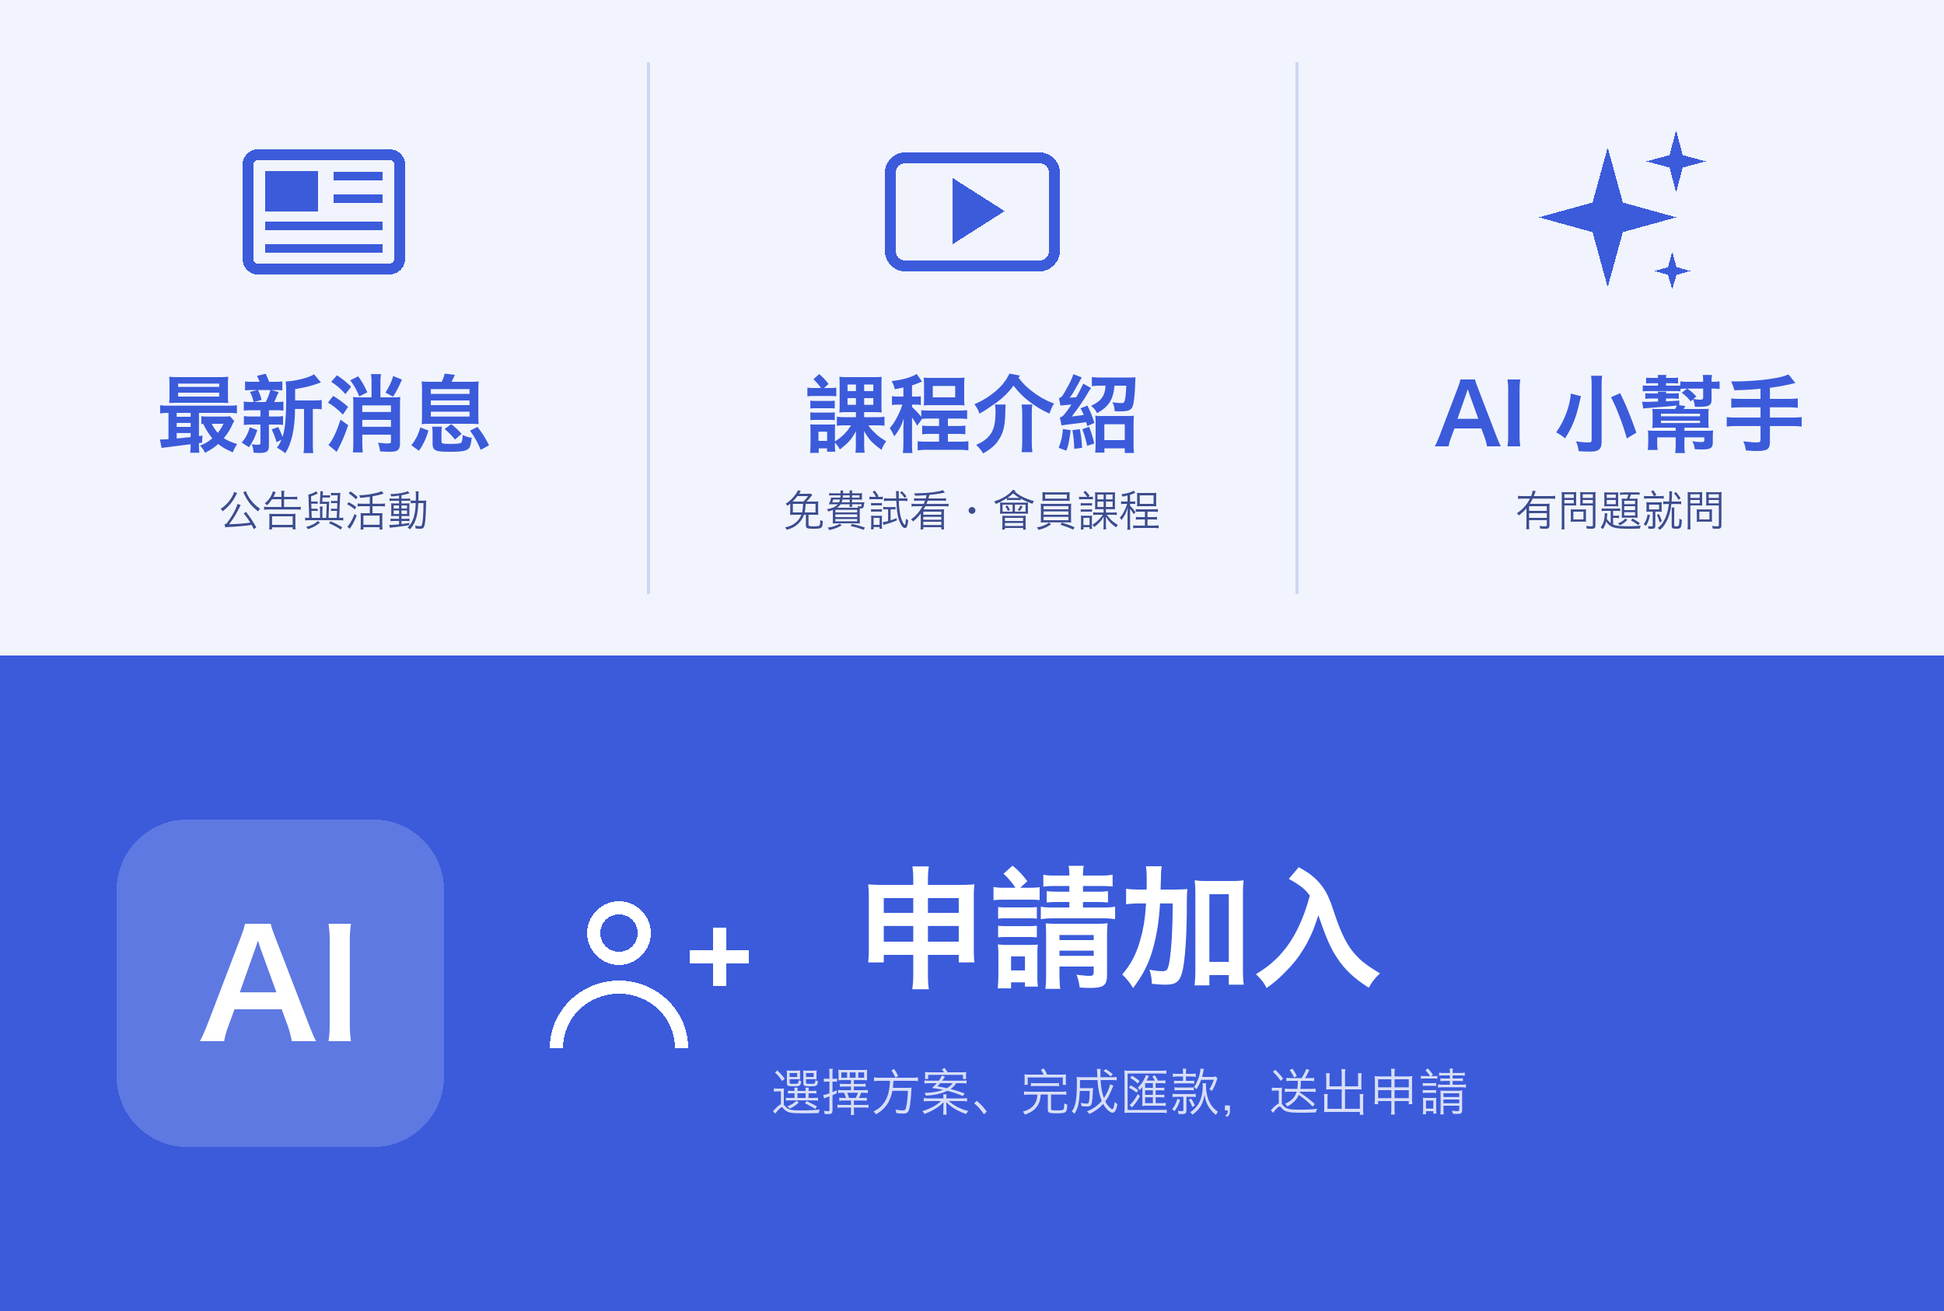
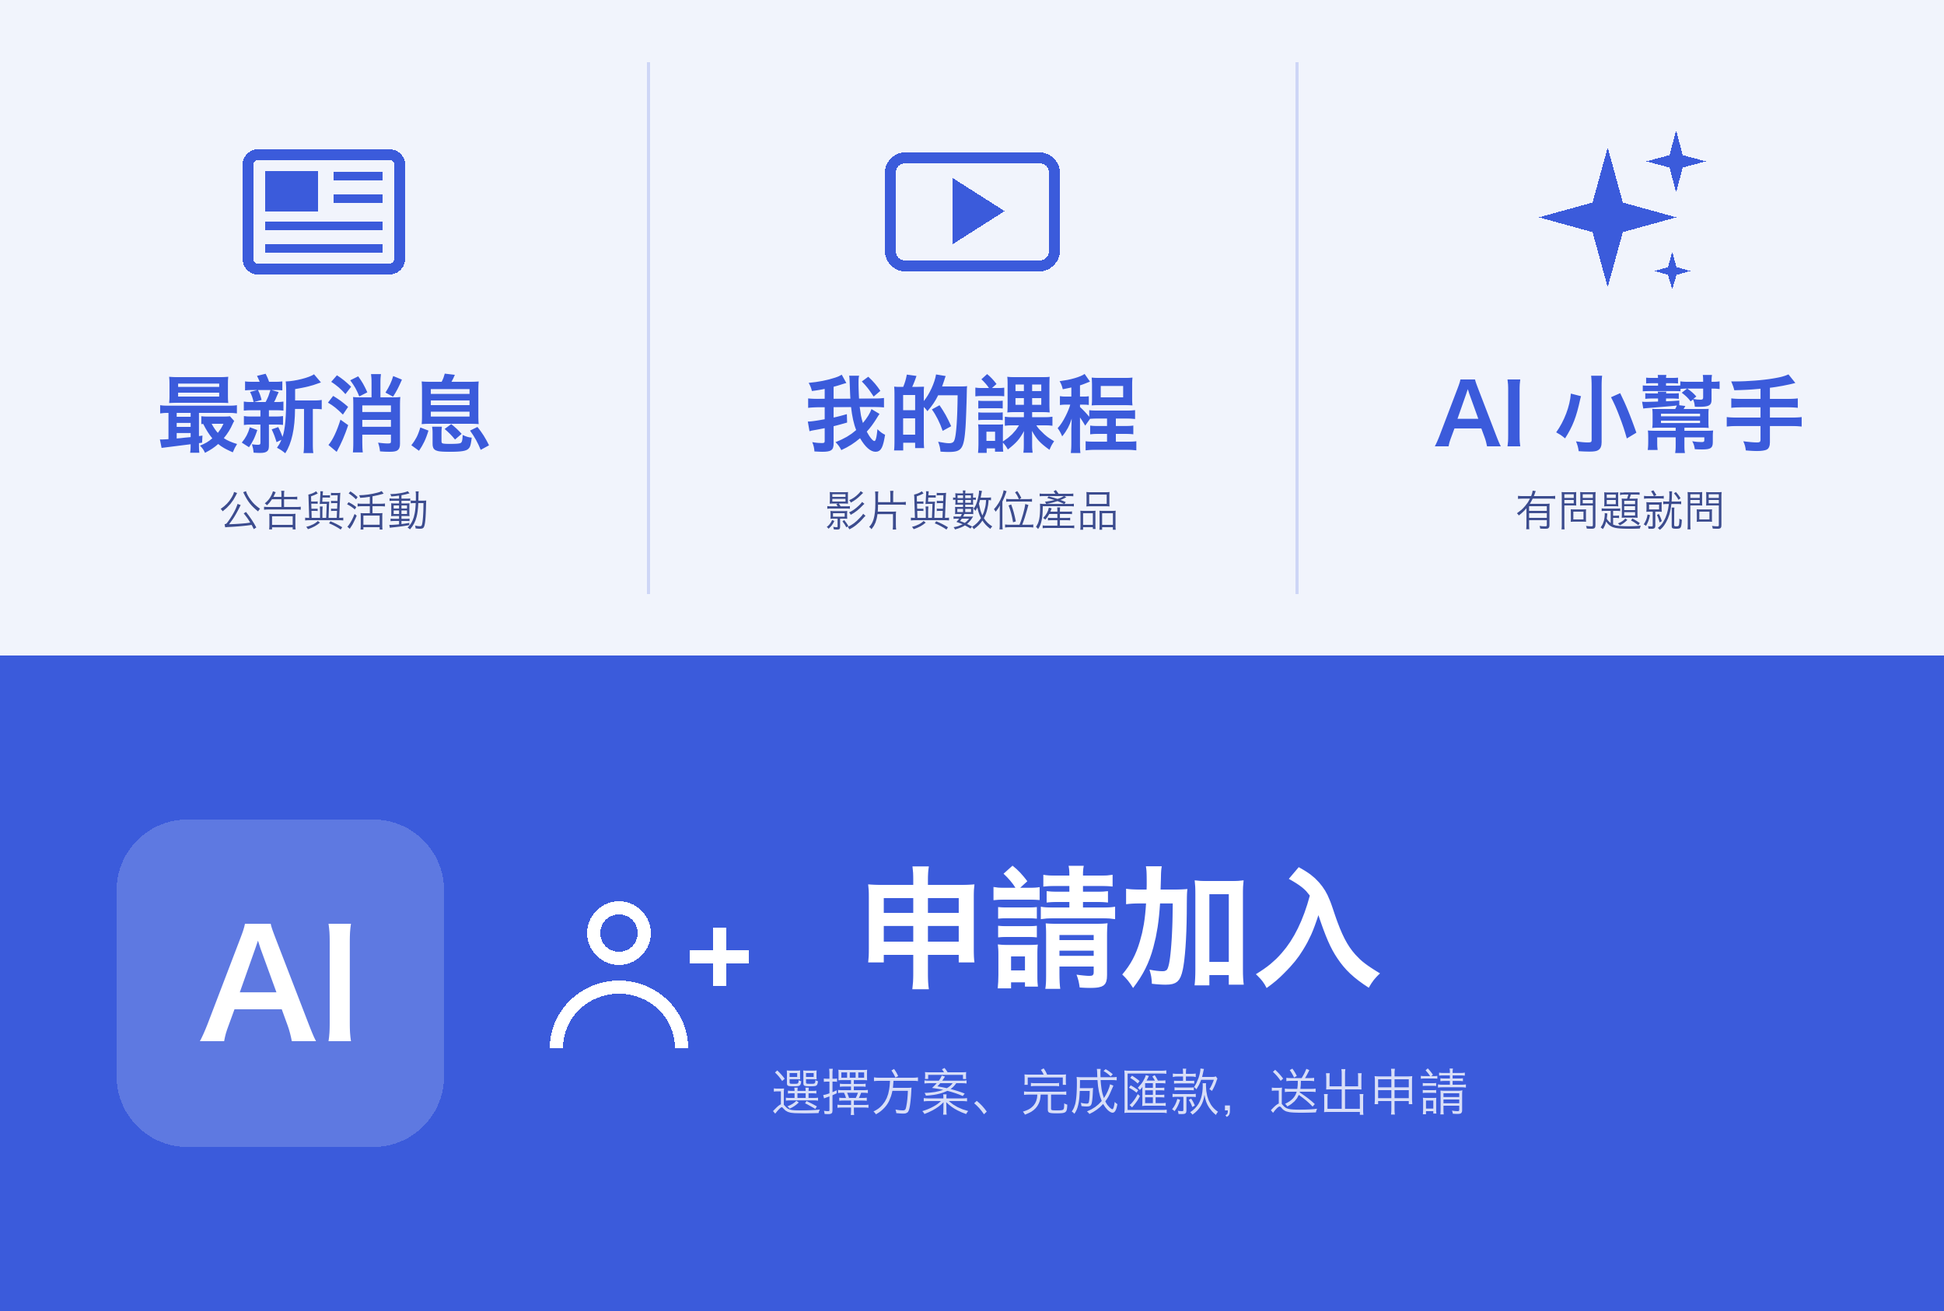
我的課程：四個入口當篩選、每頁 10 筆、訪客選單改成我的課程

Changed region(s): [[0.4056, 0.2776, 0.5928, 0.4009]]

diff --git a/liff/member/app.js b/liff/member/app.js
@@ -144,7 +144,10 @@ function go(view, id = "", replace = false) {
 }
 
 // ===== 最新消息、課程：同一張 Notion 內容庫，用「標籤」決定出現在哪裡；卡片一律是縮圖、標題、一行簡介 =====
-const LISTS = { news: ["news", api => api.news, r => r.news, "最新消息"], courses: ["items", api => api.courses, r => r.items, ""] };
+// 課程列表跟「🧭 課程入口」一起回來，入口另外存在 S.entries
+const LISTS = { news: ["news", api => api.news, r => r.news, "最新消息"],
+                courses: ["items", api => api.courses, r => { S.entries = nrows(r.entries); return r.items; }, ""] };
+const PAGE_SIZE = 10;
 function loadList(view) {
   const [key, call, pick] = LISTS[view];
   if (S[key]) return S[key];
@@ -161,10 +164,31 @@ function itemCard(it, view) {
 }
 function renderList(view) {
   const list = loadList(view); if (!list) return;
-  const title = view === "news" ? "最新消息" : IS_MEMBER(S.me.state) || IS_ADMIN() ? "我的課程" : "課程介紹";
-  const empty = view === "news" ? "目前沒有消息" : S.site["課程預告"] || "課程準備中";
-  $("#app").innerHTML = `<h1>${title}</h1>${list.length ? `<div class="grid">${list.map(it => itemCard(it, view)).join("")}</div>`
-    : `<p class="blocked">${esc(empty)}</p>`}`;
+  if (view === "news") {
+    $("#app").innerHTML = `<h1>最新消息</h1>${list.length ? `<div class="grid">${list.map(it => itemCard(it, view)).join("")}</div>`
+      : `<p class="blocked">目前沒有消息</p>`}`;
+    return;
+  }
+  // 我的課程：所有人看到同一份；上方入口是篩選器，下方近期上架每頁 10 筆，沒權限的標 🔒
+  const entries = S.entries || [];
+  const entry = entries.find(e => e.id === S.filter);
+  const shown = entry ? list.filter(it => inEntry(it, entry)) : list;
+  const pages = Math.max(1, Math.ceil(shown.length / PAGE_SIZE));
+  S.page = Math.min(S.page || 0, pages - 1);
+  const slice = shown.slice(S.page * PAGE_SIZE, (S.page + 1) * PAGE_SIZE);
+  $("#app").innerHTML = `<h1>我的課程</h1>
+    ${entries.length ? `<div class="entries">${entries.map(e => `<button class="entry${e.id === S.filter ? " on" : ""}" data-entry="${e.id}">
+      ${e["圖片"] ? `<img src="${esc(e["圖片"])}" alt="" loading="lazy">` : ""}<span class="en"><b>${esc(e["名稱"])}</b><small>${esc(e["說明"])}</small></span></button>`).join("")}</div>` : ""}
+    <div class="sec"><h2>${entry ? esc(entry["名稱"]) : "近期上架"}</h2>${entry ? `<button class="chip" data-entry="">看全部</button>` : ""}</div>
+    ${slice.length ? `<div class="grid">${slice.map(it => itemCard(it, view)).join("")}</div>`
+      : `<p class="blocked">${esc(entry ? "這裡還沒有內容" : S.site["課程預告"] || "課程準備中")}</p>`}
+    ${pages > 1 ? `<div class="pager"><button id="prevPage" ${S.page ? "" : "disabled"}>‹ 上一頁</button>
+      <span>${S.page + 1} / ${pages}</span><button id="nextPage" ${S.page < pages - 1 ? "" : "disabled"}>下一頁 ›</button></div>` : ""}`;
+}
+// 入口的篩選條件：開放對象、類型都是多選，沒勾就不限
+function inEntry(it, e) {
+  const aud = e["開放對象"] || [], types = e["類型"] || [];
+  return (!aud.length || aud.includes(it["開放對象"])) && (!types.length || types.includes(it["類型"]));
 }
 function renderItem(view) {
   const list = loadList(view); if (!list) return;
@@ -373,6 +397,9 @@ document.addEventListener("click", async e => {
   if (row && !e.target.closest("button, input")) { S.sel = S.sel === row.dataset.sel ? "" : row.dataset.sel; $("#rows").innerHTML = adminRows(); return; }
   const t = e.target.closest("button"); if (!t) return;
   if (t.id === "back") { goBack(); return; }
+  const en = e.target.closest("[data-entry]");
+  if (en) { S.filter = S.filter === en.dataset.entry ? "" : en.dataset.entry; S.page = 0; render(); $(".sec").scrollIntoView({ behavior: "smooth" }); return; }
+  if (t.id === "prevPage" || t.id === "nextPage") { S.page += t.id === "nextPage" ? 1 : -1; render(); $(".sec").scrollIntoView(); return; }
   if (t.id === "openItem") { openItem(); return; }
   if (t.id === "goLink" && S.reader) { openLink(S.reader.url); return; }
   if (t.id === "edit") { S.editing = true; render(); return; }

diff --git a/liff/member/mock.js b/liff/member/mock.js
@@ -40,14 +40,21 @@
     "類型": sel(type), "開放對象": sel(aud), "價格": { type: "number", number: price }, "公開摘要": text("（一行簡介，太長會被截斷，只顯示一行）"),
     "標籤": { type: "multi_select", multi_select: tags.map(name => ({ name })) }, "上架日期": { type: "date", date: { start: date } },
     "封面": cov ? file(pic(title, cov)) : { type: "files", files: [] } });
-  const items = [item("c1", "免費入門課", "教學影片", "公開", ["課程", "最新消息"], null, "#F59F00", "2026-10-22"),
-                 item("c2", "會員課程", "教學影片", "一般會員", ["課程"], null, "#3B5BDB", "2026-10-20"),
-                 item("c3", "高級課程", "教學影片", "高級會員", ["課程"], null, "", "2026-10-19"),
-                 item("c4", "範例電子書", "數位產品", "單獨購買", ["課程"], 299, "#7048E8", "2026-10-18"),
+  const items = [item("c1", "免費入門課", "教學影片", "公開", ["我的課程", "最新消息"], null, "#F59F00", "2026-10-22"),
+                 item("c2", "會員課程", "教學影片", "一般會員", ["我的課程"], null, "#3B5BDB", "2026-10-20"),
+                 item("c3", "高級課程", "教學影片", "高級會員", ["我的課程"], null, "", "2026-10-19"),
+                 item("c4", "範例電子書", "數位產品", "公開", ["我的課程"], null, "#7048E8", "2026-10-18"),
                  item("n1", "（範例）學院開張", "公告", "公開", ["最新消息"], null, "#0CA678", "2026-10-23"),
                  item("n2", "（範例）會員直播", "公告", "一般會員", ["最新消息"], null, "", "2026-10-21")];
   // 已上傳到雲端硬碟圖床的封面：頁面會加上縮圖參數
   items[1].properties["封面網址"] = { type: "url", url: "https://lh3.googleusercontent.com/d/1LzP0MJLjtsQPYwVVYPdtIM71_cb2USPM#sample.png" };
+  // 多加幾筆課程看換頁（每頁 10 筆）
+  for (let i = 1; i <= 9; i++) items.push(item("x" + i, "範例課程 " + i, "教學影片", i % 3 ? "一般會員" : "公開", ["我的課程"], null, "", "2026-09-" + String(30 - i).padStart(2, "0")));
+  const ms = v => ({ type: "multi_select", multi_select: v.map(name => ({ name })) });
+  const entries = [["e1", "免費入門課", "免費看的入門課程", ["公開"], ["教學影片"], "#F59F00"], ["e2", "會員課程", "一般會員的完整課程", ["一般會員"], ["教學影片"], "#3B5BDB"],
+                   ["e3", "高級課程", "高級會員專屬", ["高級會員"], ["教學影片"], "#0CA678"], ["e4", "免費電子書", "可以下載的 PDF", ["公開"], ["數位產品"], "#7048E8"]]
+    .map(([id, name, desc, aud, type, col]) => row(id, { "名稱": { type: "title", title: [{ plain_text: name }] }, "說明": text(desc),
+      "開放對象": ms(aud), "類型": ms(type), "圖片": file(pic(name, col)) }));
   const tagged = tag => items.filter(x => x.properties["標籤"].multi_select.some(t => t.name === tag));
   const person = (id, name, ident, role) => row(id, { "姓名": { type: "title", title: [{ plain_text: name }] }, "身分": sel(ident),
     "電話": { type: "phone_number", phone_number: "0900-000-000" }, "方案": sel("方案 A"), "角色": { type: "multi_select", multi_select: role ? [{ name: role }] : [] },
@@ -59,7 +66,7 @@
     async apply(f) { await wait(700); me = { ...me, ...f, state: ["guest", "expired"].includes(me.state) ? "pending" : me.state }; return { ...me }; },
     async profile(f) { await wait(500); me = { ...me, ...f }; return { ok: true }; },
     async news() { await wait(400); return { news: tagged("最新消息") }; },
-    async courses() { await wait(400); return { items: tagged("課程") }; },
+    async courses() { await wait(400); return { items: tagged("我的課程"), entries }; },
     // c2 模擬 Notion 上傳的影片（頁面內播放），其他模擬外部連結
     async open(id) { await wait(400); return id === "c2" ? { link: "https://interactive-examples.mdn.mozilla.net/media/cc0-videos/flower.mp4", video: "Y" }
       : id === "c1" ? { link: "https://www.youtube.com/", intro: "（範例導讀）這支影片值得看的三個重點：\n一、……\n二、……\n三、……" } : { link: "https://example.com/" }; },

diff --git a/liff/member/index.html b/liff/member/index.html
@@ -82,6 +82,20 @@ dt{color:var(--soft)}
 .player video{display:block;width:100%;height:100%}
 .wm{position:absolute;left:8%;top:12%;color:rgba(255,255,255,.45);font-size:14px;font-weight:700;text-shadow:0 0 3px rgba(0,0,0,.6);pointer-events:none;user-select:none;animation:wm 24s linear infinite}
 @keyframes wm{0%{left:8%;top:12%}25%{left:62%;top:20%}50%{left:55%;top:72%}75%{left:10%;top:64%}100%{left:8%;top:12%}}
+/* 我的課程：入口（2×2 篩選器）、分區標題、換頁 */
+.entries{display:grid;grid-template-columns:1fr 1fr;gap:10px;margin-top:12px}
+.entry{position:relative;aspect-ratio:16/9;border-radius:14px;overflow:hidden;background:var(--brand);color:#fff;text-align:left;border:2px solid transparent}
+.entry img{position:absolute;inset:0;width:100%;height:100%;object-fit:cover}
+.entry .en{position:absolute;left:0;right:0;bottom:0;padding:18px 10px 8px;background:linear-gradient(transparent,rgba(0,0,0,.65))}
+.entry b{display:block;font-size:15px}
+.entry small{display:block;font-size:11px;opacity:.85;white-space:nowrap;overflow:hidden;text-overflow:ellipsis}
+.entry.on{border-color:var(--accent)}
+.sec{display:flex;align-items:center;justify-content:space-between;margin:22px 0 10px}
+.sec h2{font-size:17px}
+.chip{font-size:13px;font-weight:700;color:var(--brand);background:var(--brand-bg);border-radius:10px;padding:4px 10px}
+.pager{display:flex;align-items:center;justify-content:center;gap:16px;margin-top:16px;color:var(--soft)}
+.pager button{font-weight:700;color:var(--brand);padding:8px 10px}
+.pager button:disabled{opacity:.35}
 .notice{margin-top:14px;border-radius:12px;background:var(--amber-bg);color:var(--amber);padding:10px 14px;font-size:15px}
 /* 圖片一律 16:9，裁切置中 */
 .cover{display:block;width:100%;aspect-ratio:16/9;object-fit:cover;border-radius:14px;background:var(--brand-bg);margin-top:16px}

diff --git a/tools/make_blueprints.py b/tools/make_blueprints.py
@@ -3,7 +3,7 @@
 
 - 會員_API.blueprint.json：「{專案}｜會員 API（自動執行）」（欄位 t 是 LINE Access Token）
     a=me 我的身分＋前台設定＋方案＋是否管理者（順便校正選單）｜a=apply 申請入會＋匯款回報｜a=profile 會員自己改基本資料
-    a=news 內容庫標籤「最新消息」｜a=courses 內容庫標籤「課程」（列表都不含內容連結，上鎖的也列出來）｜a=course_open 依身分給內容連結（有影片檔就給 Notion 一小時有效的檔案網址）
+    a=news 內容庫標籤「最新消息」｜a=courses 內容庫標籤「我的課程」＋課程入口（列表都不含內容連結，上鎖的也列出來）｜a=course_open 依身分給內容連結（有上傳檔案就給 Notion 一小時有效的檔案網址）
     a=admin_list 名冊｜a=admin_set 核准、升級高級會員、停權、恢復（只有名冊「角色」勾管理者的人能用）
     頁面上的文字、圖片、方案、收款帳戶都從 Notion「前台設定」「方案」讀，repo 裡不放。
     Notion 核准連結：a=approve 核准入會｜a=sync 依身分套用選單（欄位 k 是密鑰、id 是名冊頁面 ID）
@@ -48,6 +48,7 @@ PLANS_DS = CFG["notion"]["plans_data_source_id"]
 CONTENT_DS = CFG["notion"]["content_data_source_id"]    # 內容庫（最新消息、課程、數位產品都在這裡，用「標籤」分）
 # 內容庫列表回傳的欄位（Notion 欄位 ID）：除了「內容連結」都要，連結只在點開時依身分給
 CONTENT_LIST_PROPS = CFG["notion"]["content_list_property_ids"]
+ENTRIES_DS = CFG["notion"].get("entries_data_source_id")       # 🧭 課程入口
 RULES_DS = CFG["notion"].get("assistant_rules_data_source_id")   # 🤖 小幫手指示
 FAQ_DS = CFG["notion"].get("faq_data_source_id")                 # 📖 FAQ 知識庫
 LOG_DS = CFG["notion"].get("assistant_log_data_source_id")       # 💬 小幫手對話紀錄
@@ -469,14 +470,21 @@ def build_api():
 
     # ==== 最新消息：會員和管理者看全部，其他人只看「公開」 ====
     # ==== 最新消息、課程：同一張內容庫，用「標籤」決定出現在哪裡；列表不帶「內容連結」，點開時才依身分給連結 ====
-    def list_flow(tag, key, sort):
+    def list_flow(tag, key, sort, entries=False):
         q = ('{"filter":{"and":[{"property":"上架狀態","select":{"equals":"上架"}},{"property":"標籤","multi_select":{"contains":"' + tag
              + '"}}]},"sorts":[' + sort + '],"page_size":100}')
         api = b.notion_api(f"讀內容庫（{tag}）", f"/v1/data_sources/{CONTENT_DS}/query?{LIST_QS}", "POST", q)
         js = b.to_json(f"{tag}轉 JSON", f"{{{{{api['id']}.body.results}}}}")
-        return [api, js, respond_json(f"回傳{tag}", f'{{"ok":true,"{key}":{{{{{js["id"]}.json}}}}}}')]
+        if not entries:
+            return [api, js, respond_json(f"回傳{tag}", f'{{"ok":true,"{key}":{{{{{js["id"]}.json}}}}}}')]
+        # 「我的課程」頁上方的入口（篩選器）：Notion「🧭 課程入口」，跟列表一起回傳，頁面不必多打一次
+        en = b.notion_api("讀課程入口", f"/v1/data_sources/{ENTRIES_DS}/query", "POST",
+                          '{"filter":{"property":"上架","checkbox":{"equals":true}},"sorts":[{"property":"排序","direction":"ascending"}]}')
+        ej = b.to_json("課程入口轉 JSON", f"{{{{{en['id']}.body.results}}}}")
+        return [api, js, en, ej, respond_json(f"回傳{tag}", f'{{"ok":true,"{key}":{{{{{js["id"]}.json}}}},"entries":{{{{{ej["id"]}.json}}}}}}')]
     news_flow = list_flow("最新消息", "news", '{"property":"上架日期","direction":"descending"}')
-    courses_flow = list_flow("課程", "items", '{"property":"排序","direction":"ascending"},{"property":"上架日期","direction":"descending"}')
+    # 所有人看到同一份「我的課程」：近期上架在前，頁面每 10 筆一頁
+    courses_flow = list_flow("我的課程", "items", '{"property":"上架日期","direction":"descending"}', entries=True)
 
     item = b.notion_api("讀要打開的內容", "/v1/pages/{{1.id}}",
                         onerror=[respond_json("回傳找不到內容", '{"ok":false,"error":"not_found"}', "404"), b.ignore()])
@@ -487,10 +495,13 @@ def build_api():
     allow = ("{{if(" + parent[2:-2] + f' = "{CONTENT_DS}"; if(' + status[2:-2] + ' = "上架"; if(' + w_admin[2:-2] + ' = "Y"; "Y"; if('
              + aud[2:-2] + ' = "公開"; "Y"; if(' + aud[2:-2] + ' = "一般會員"; if(' + wi + ' = "一般會員"; "Y"; if(' + wi
              + ' = "高級會員"; "Y"; "N")); if(' + aud[2:-2] + ' = "高級會員"; if(' + wi + ' = "高級會員"; "Y"; "N"); "N")))); "N"); "N")}}')
-    # 有上傳「影片檔」就給 Notion 的檔案網址（約一小時後失效，轉貼出去很快就看不到），頁面直接嵌入播放；沒有才給「內容連結」
-    vid = f"{I}.body.properties.`影片檔`.files[1].file.url"
+    # 有上傳「檔案」就給 Notion 的檔案網址（約一小時後失效，轉貼出去很快就看不到），頁面直接嵌入播放；沒有才給「內容連結」
+    vid = f"{I}.body.properties.`檔案`.files[1].file.url"
+    fname = f"lower({I}.body.properties.`檔案`.files[1].name)"
     link = "{{ifempty(" + vid + "; " + f"{I}.body.properties.`內容連結`.url" + ")}}"
-    video = "{{if(" + vid + '; "Y"; "N")}}'
+    # 影片在頁面裡播放；PDF 等其他檔案（電子書）直接打開
+    video = ("{{if(" + vid + "; if(contains(" + fname + '; ".mp4"); "Y"; if(contains(' + fname + '; ".mov"); "Y"; if(contains('
+             + fname + '; ".m4v"); "Y"; if(contains(' + fname + '; ".webm"); "Y"; "N")))); "N")}}')
     trial = f"{{{{{I}.body.properties.`試看連結`.url}}}}"
     # 導讀：Phil 為 YouTube 等外部影片寫的三五百字說明，跟連結一樣有權限才給
     intro = "{{join(map(" + f"{I}.body.properties.`導讀`.rich_text" + '; "plain_text"); "")}}'

diff --git a/tools/make_richmenus.py b/tools/make_richmenus.py
@@ -1,6 +1,6 @@
 """會員通（LINE Member Kit）：產生三張圖文選單圖片（2500 × 1686，上排三格、下排一整塊），輸出到 assets/richmenu/。
 
-- guest.png：訪客選單（非會員、審核中、已到期、停權）  上排：最新消息｜課程介紹｜AI 小幫手　下排：申請加入
+- guest.png：訪客選單（非會員、審核中、已到期、停權）  上排：最新消息｜我的課程｜AI 小幫手　下排：申請加入
 - member.png：會員選單（一般會員、高級會員）          上排：最新消息｜我的課程｜AI 小幫手　下排：會員專區
 - admin.png：管理者選單（名冊「角色」勾管理者）         上排：和會員相同　　　　　　　　　 下排：管理會員
 
@@ -106,11 +106,9 @@ def people_gear(d, cx, cy, s, col):
     d.ellipse([gx - r, gy - r, gx + r, gy + r], outline=col, width=lw)
 
 
-TOP = {
-    "guest": [("最新消息", "公告與活動", news), ("課程介紹", "免費試看・會員課程", play), ("AI 小幫手", "有問題就問", sparkle)],
-    "member": [("最新消息", "公告與活動", news), ("我的課程", "影片與數位產品", play), ("AI 小幫手", "有問題就問", sparkle)],
-}
-TOP["admin"] = TOP["member"]
+# 上排三張選單都一樣（所有人看到同一個「我的課程」頁，靠權限區分能不能進去）
+TOP = {"member": [("最新消息", "公告與活動", news), ("我的課程", "影片與數位產品", play), ("AI 小幫手", "有問題就問", sparkle)]}
+TOP["guest"] = TOP["admin"] = TOP["member"]
 BOTTOM = {
     "guest": ("申請加入", "選擇方案、完成匯款，送出申請", person_plus),
     "member": ("會員專區", "會籍・到期日・我的資料", card),
